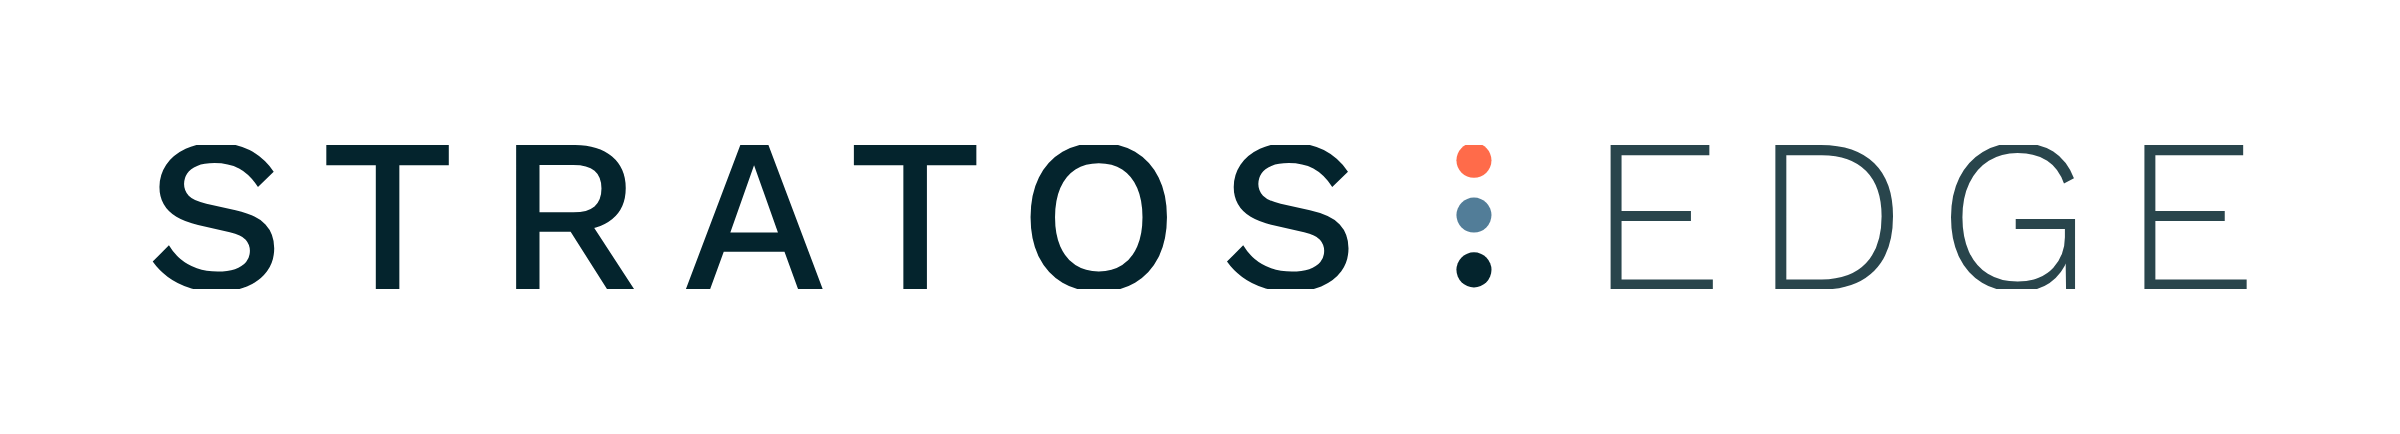
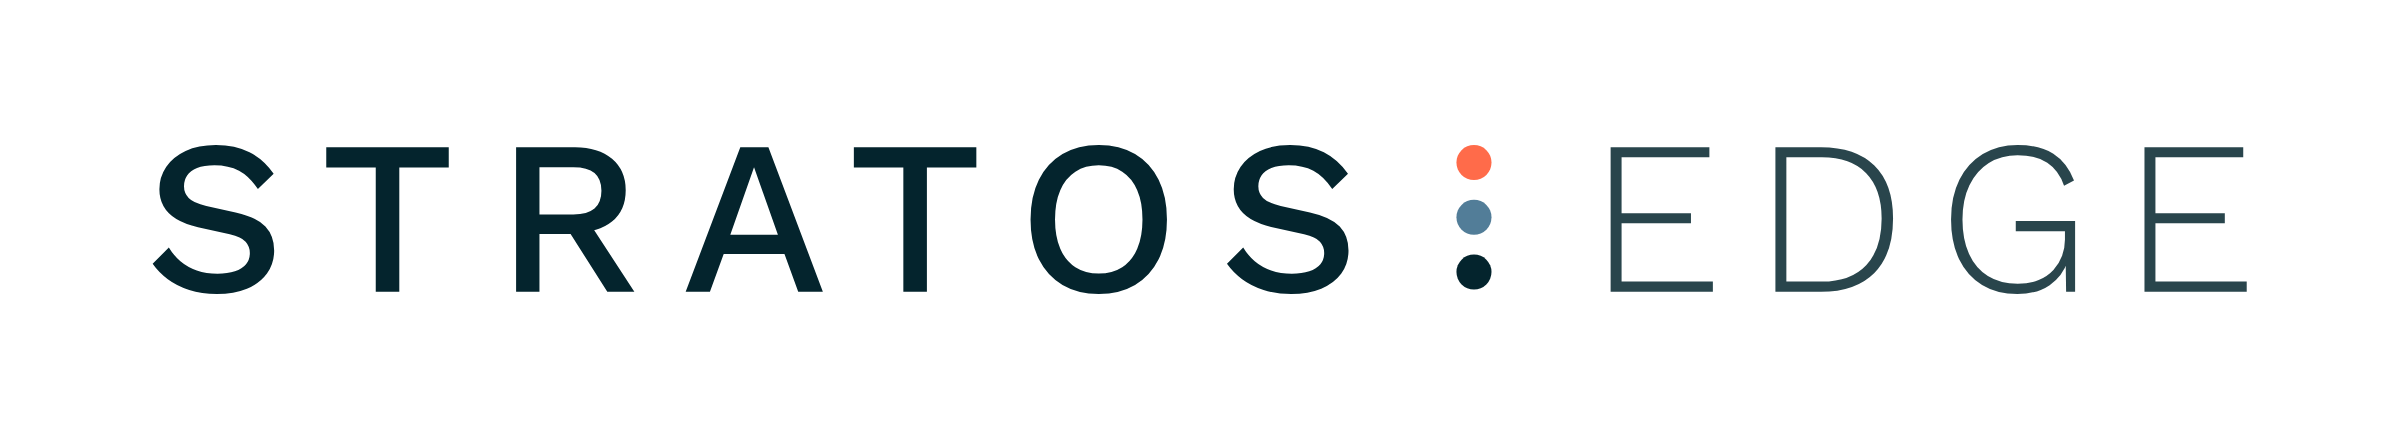
Wordmark and lockup SVGs keep the letters' overshoot; the viewBox follows the real ink, not cap line to baseline

diff --git a/brand-assets/usage.html b/brand-assets/usage.html
@@ -16,14 +16,14 @@
 <section style="margin-top:36px"><div><h2>Three forms</h2><p>The lockup is the mark beside the wordmark. The wordmark is STRATOS and EDGE with the three dots between them. The S is the mark alone, for tight spaces and icons.</p></div>
   <div class="col"><div class="paper"><span class="v" style="height:74px"><svg xmlns="http://www.w3.org/2000/svg" viewBox="0 0 11000.13 1060" role="img"><title>Stratos Edge</title><g transform="translate(-160 -160)">
   <rect x="352.03" y="160" width="652.9" height="291.88" rx="145.94" fill="#FF6B4A"/><rect x="436.52" y="544.06" width="291.88" height="291.88" rx="145.94" fill="#527D98"/><rect x="160" y="928.12" width="652.9" height="291.88" rx="145.94" fill="#04242D"/><g fill="#04242D"><path transform="translate(1524.88 1030)" d="M323.4 -670Q411.9 -670 477.1 -636.7Q542.4 -603.3 587.2 -538.3L515.4 -468.6Q476.6 -527.1 429.2 -552.4Q381.8 -577.7 316.9 -577.7Q268.7 -577.7 237.6 -564.7Q206.6 -551.7 192.3 -530.3Q178 -509 178 -481.9Q178 -451.1 199.3 -428.3Q220.7 -405.5 279.9 -391.9L413.5 -361.9Q509.6 -340.5 549.6 -297.6Q589.6 -254.6 589.6 -188.6Q589.6 -128.2 556.8 -83.3Q523.9 -38.4 465.2 -14.2Q406.5 10 328.3 10Q257.9 10 201.8 -8.1Q145.8 -26.1 104.1 -57.2Q62.4 -88.3 34.9 -127.7L108.9 -202Q129.7 -166.7 161.6 -139.6Q193.6 -112.5 236.4 -97.4Q279.2 -82.3 331.1 -82.3Q377.2 -82.3 410.5 -93.2Q443.8 -104.2 461.2 -125.5Q478.6 -146.7 478.6 -177.1Q478.6 -205.8 459.3 -228Q440 -250.2 387 -262.1L241.9 -294.7Q182.4 -308.4 143 -332.1Q103.6 -355.8 84.7 -390.2Q65.7 -424.6 65.7 -468.4Q65.7 -524.1 96.5 -569.8Q127.2 -615.5 185.3 -642.7Q243.3 -670 323.4 -670Z"/><path transform="translate(2322.5 1030)" d="M588.9 -660V-567.7H363.2V0H255.7V-567.7H29.8V-660Z"/><path transform="translate(3121.25 1030)" d="M367 -660Q473 -660 535.5 -607Q597.9 -554 597.9 -463.9Q597.9 -371.3 535.3 -320.9Q472.8 -270.4 366.7 -270.4L356.8 -264.1H204.2V0H97.6V-660ZM359 -353.1Q423.9 -353.1 455.5 -379.8Q487.1 -406.4 487.1 -460.9Q487.1 -515.2 455.5 -541.9Q423.9 -568.6 359 -568.6H204.2V-353.1ZM421.5 -331.2 637.4 0H513.9L330.4 -289Z"/><path transform="translate(3973.44 1030)" d="M645.7 0H533.2L470.4 -172.7H193.1L130.2 0H19.5L268.8 -660H397.1ZM223.2 -260.3H440.5L331.5 -568.1Z"/><path transform="translate(4730.81 1030)" d="M588.9 -660V-567.7H363.2V0H255.7V-567.7H29.8V-660Z"/><path transform="translate(5506.19 1030)" d="M372.4 -670Q468.4 -670 538 -628.8Q607.7 -587.5 645.6 -511.5Q683.6 -435.5 683.6 -330Q683.6 -224.5 645.6 -148.5Q607.7 -72.5 538 -31.2Q468.4 10 372.4 10Q276.6 10 206.8 -31.2Q137.1 -72.5 99 -148.5Q61 -224.5 61 -330Q61 -435.5 99 -511.5Q137.1 -587.5 206.8 -628.8Q276.6 -670 372.4 -670ZM372.4 -577Q310.5 -577 265.6 -548Q220.8 -519 196.7 -463.8Q172.7 -408.5 172.7 -330Q172.7 -251.7 196.7 -196.3Q220.8 -141 265.6 -112Q310.5 -83 372.4 -83Q435.1 -83 479.5 -112Q524 -141 547.9 -196.3Q571.9 -251.7 571.9 -330Q571.9 -408.5 547.9 -463.8Q524 -519 479.5 -548Q435.1 -577 372.4 -577Z"/><path transform="translate(6428.94 1030)" d="M323.4 -670Q411.9 -670 477.1 -636.7Q542.4 -603.3 587.2 -538.3L515.4 -468.6Q476.6 -527.1 429.2 -552.4Q381.8 -577.7 316.9 -577.7Q268.7 -577.7 237.6 -564.7Q206.6 -551.7 192.3 -530.3Q178 -509 178 -481.9Q178 -451.1 199.3 -428.3Q220.7 -405.5 279.9 -391.9L413.5 -361.9Q509.6 -340.5 549.6 -297.6Q589.6 -254.6 589.6 -188.6Q589.6 -128.2 556.8 -83.3Q523.9 -38.4 465.2 -14.2Q406.5 10 328.3 10Q257.9 10 201.8 -8.1Q145.8 -26.1 104.1 -57.2Q62.4 -88.3 34.9 -127.7L108.9 -202Q129.7 -166.7 161.6 -139.6Q193.6 -112.5 236.4 -97.4Q279.2 -82.3 331.1 -82.3Q377.2 -82.3 410.5 -93.2Q443.8 -104.2 461.2 -125.5Q478.6 -146.7 478.6 -177.1Q478.6 -205.8 459.3 -228Q440 -250.2 387 -262.1L241.9 -294.7Q182.4 -308.4 143 -332.1Q103.6 -355.8 84.7 -390.2Q65.7 -424.6 65.7 -468.4Q65.7 -524.1 96.5 -569.8Q127.2 -615.5 185.3 -642.7Q243.3 -670 323.4 -670Z"/></g><circle cx="7591.25" cy="440" r="80" fill="#FF6B4A"/><circle cx="7591.25" cy="690" r="80" fill="#527D98"/><circle cx="7591.25" cy="940" r="80" fill="#04242D"/><g fill="#04242D" fill-opacity=".85"><path transform="translate(8111.25 1030)" d="M103.8 0V-660H554.6V-613.6H153.8V-358.9H470.5V-312.5H153.8V-46.4H570.5V0Z"/><path transform="translate(8863.44 1030)" d="M312.1 -660Q469.9 -660 555.4 -576.6Q640.8 -493.2 640.8 -334.7Q640.8 -171.9 555.4 -86Q469.9 0 312.1 0H103.8V-660ZM316.3 -46.4Q447.6 -46.4 518.2 -121.2Q588.7 -195.9 588.7 -334.7Q588.7 -469.2 518.2 -541.4Q447.6 -613.6 316.3 -613.6H153.8V-46.4Z"/><path transform="translate(9706.63 1030)" d="M365.1 10Q272 10 204 -31.5Q136 -73 99.2 -149Q62.4 -225 62.4 -330Q62.4 -435 100.5 -511Q138.6 -587 207.2 -628.5Q275.9 -670 366 -670Q466.8 -670 529.2 -630Q591.7 -589.9 623.6 -508.2L578.2 -483.7Q554.8 -553.3 501.7 -588.5Q448.6 -623.6 366 -623.6Q291.5 -623.6 234.8 -588.1Q178.2 -552.6 146.3 -486.8Q114.5 -421 114.5 -330Q114.5 -239 144.2 -173.2Q173.9 -107.4 230.5 -71.9Q287.1 -36.4 366.7 -36.4Q421.8 -36.4 462.4 -53.5Q503.1 -70.5 529.6 -99.5Q556.1 -128.5 569.2 -164.7Q582.3 -200.9 582.3 -239.2V-276.3H357.8V-322.7H628.6V0H587.6L585.5 -143.2L595 -140.6Q571.3 -70.7 512.5 -30.3Q453.7 10 365.1 10Z"/><path transform="translate(10548.13 1030)" d="M103.8 0V-660H554.6V-613.6H153.8V-358.9H470.5V-312.5H153.8V-46.4H570.5V0Z"/></g></g></svg>
-</span></div><div class="paper"><span class="v" style="height:46px"><svg xmlns="http://www.w3.org/2000/svg" viewBox="0 0 9635.25 660" role="img"><title>Stratos Edge</title><g transform="translate(-1524.88 -370)">
+</span></div><div class="paper"><span class="v" style="height:46px"><svg xmlns="http://www.w3.org/2000/svg" viewBox="0 0 9635.25 680" role="img"><title>Stratos Edge</title><g transform="translate(-1524.88 -360)">
   <g fill="#04242D"><path transform="translate(1524.88 1030)" d="M323.4 -670Q411.9 -670 477.1 -636.7Q542.4 -603.3 587.2 -538.3L515.4 -468.6Q476.6 -527.1 429.2 -552.4Q381.8 -577.7 316.9 -577.7Q268.7 -577.7 237.6 -564.7Q206.6 -551.7 192.3 -530.3Q178 -509 178 -481.9Q178 -451.1 199.3 -428.3Q220.7 -405.5 279.9 -391.9L413.5 -361.9Q509.6 -340.5 549.6 -297.6Q589.6 -254.6 589.6 -188.6Q589.6 -128.2 556.8 -83.3Q523.9 -38.4 465.2 -14.2Q406.5 10 328.3 10Q257.9 10 201.8 -8.1Q145.8 -26.1 104.1 -57.2Q62.4 -88.3 34.9 -127.7L108.9 -202Q129.7 -166.7 161.6 -139.6Q193.6 -112.5 236.4 -97.4Q279.2 -82.3 331.1 -82.3Q377.2 -82.3 410.5 -93.2Q443.8 -104.2 461.2 -125.5Q478.6 -146.7 478.6 -177.1Q478.6 -205.8 459.3 -228Q440 -250.2 387 -262.1L241.9 -294.7Q182.4 -308.4 143 -332.1Q103.6 -355.8 84.7 -390.2Q65.7 -424.6 65.7 -468.4Q65.7 -524.1 96.5 -569.8Q127.2 -615.5 185.3 -642.7Q243.3 -670 323.4 -670Z"/><path transform="translate(2322.5 1030)" d="M588.9 -660V-567.7H363.2V0H255.7V-567.7H29.8V-660Z"/><path transform="translate(3121.25 1030)" d="M367 -660Q473 -660 535.5 -607Q597.9 -554 597.9 -463.9Q597.9 -371.3 535.3 -320.9Q472.8 -270.4 366.7 -270.4L356.8 -264.1H204.2V0H97.6V-660ZM359 -353.1Q423.9 -353.1 455.5 -379.8Q487.1 -406.4 487.1 -460.9Q487.1 -515.2 455.5 -541.9Q423.9 -568.6 359 -568.6H204.2V-353.1ZM421.5 -331.2 637.4 0H513.9L330.4 -289Z"/><path transform="translate(3973.44 1030)" d="M645.7 0H533.2L470.4 -172.7H193.1L130.2 0H19.5L268.8 -660H397.1ZM223.2 -260.3H440.5L331.5 -568.1Z"/><path transform="translate(4730.81 1030)" d="M588.9 -660V-567.7H363.2V0H255.7V-567.7H29.8V-660Z"/><path transform="translate(5506.19 1030)" d="M372.4 -670Q468.4 -670 538 -628.8Q607.7 -587.5 645.6 -511.5Q683.6 -435.5 683.6 -330Q683.6 -224.5 645.6 -148.5Q607.7 -72.5 538 -31.2Q468.4 10 372.4 10Q276.6 10 206.8 -31.2Q137.1 -72.5 99 -148.5Q61 -224.5 61 -330Q61 -435.5 99 -511.5Q137.1 -587.5 206.8 -628.8Q276.6 -670 372.4 -670ZM372.4 -577Q310.5 -577 265.6 -548Q220.8 -519 196.7 -463.8Q172.7 -408.5 172.7 -330Q172.7 -251.7 196.7 -196.3Q220.8 -141 265.6 -112Q310.5 -83 372.4 -83Q435.1 -83 479.5 -112Q524 -141 547.9 -196.3Q571.9 -251.7 571.9 -330Q571.9 -408.5 547.9 -463.8Q524 -519 479.5 -548Q435.1 -577 372.4 -577Z"/><path transform="translate(6428.94 1030)" d="M323.4 -670Q411.9 -670 477.1 -636.7Q542.4 -603.3 587.2 -538.3L515.4 -468.6Q476.6 -527.1 429.2 -552.4Q381.8 -577.7 316.9 -577.7Q268.7 -577.7 237.6 -564.7Q206.6 -551.7 192.3 -530.3Q178 -509 178 -481.9Q178 -451.1 199.3 -428.3Q220.7 -405.5 279.9 -391.9L413.5 -361.9Q509.6 -340.5 549.6 -297.6Q589.6 -254.6 589.6 -188.6Q589.6 -128.2 556.8 -83.3Q523.9 -38.4 465.2 -14.2Q406.5 10 328.3 10Q257.9 10 201.8 -8.1Q145.8 -26.1 104.1 -57.2Q62.4 -88.3 34.9 -127.7L108.9 -202Q129.7 -166.7 161.6 -139.6Q193.6 -112.5 236.4 -97.4Q279.2 -82.3 331.1 -82.3Q377.2 -82.3 410.5 -93.2Q443.8 -104.2 461.2 -125.5Q478.6 -146.7 478.6 -177.1Q478.6 -205.8 459.3 -228Q440 -250.2 387 -262.1L241.9 -294.7Q182.4 -308.4 143 -332.1Q103.6 -355.8 84.7 -390.2Q65.7 -424.6 65.7 -468.4Q65.7 -524.1 96.5 -569.8Q127.2 -615.5 185.3 -642.7Q243.3 -670 323.4 -670Z"/></g><circle cx="7591.25" cy="440" r="80" fill="#FF6B4A"/><circle cx="7591.25" cy="690" r="80" fill="#527D98"/><circle cx="7591.25" cy="940" r="80" fill="#04242D"/><g fill="#04242D" fill-opacity=".85"><path transform="translate(8111.25 1030)" d="M103.8 0V-660H554.6V-613.6H153.8V-358.9H470.5V-312.5H153.8V-46.4H570.5V0Z"/><path transform="translate(8863.44 1030)" d="M312.1 -660Q469.9 -660 555.4 -576.6Q640.8 -493.2 640.8 -334.7Q640.8 -171.9 555.4 -86Q469.9 0 312.1 0H103.8V-660ZM316.3 -46.4Q447.6 -46.4 518.2 -121.2Q588.7 -195.9 588.7 -334.7Q588.7 -469.2 518.2 -541.4Q447.6 -613.6 316.3 -613.6H153.8V-46.4Z"/><path transform="translate(9706.63 1030)" d="M365.1 10Q272 10 204 -31.5Q136 -73 99.2 -149Q62.4 -225 62.4 -330Q62.4 -435 100.5 -511Q138.6 -587 207.2 -628.5Q275.9 -670 366 -670Q466.8 -670 529.2 -630Q591.7 -589.9 623.6 -508.2L578.2 -483.7Q554.8 -553.3 501.7 -588.5Q448.6 -623.6 366 -623.6Q291.5 -623.6 234.8 -588.1Q178.2 -552.6 146.3 -486.8Q114.5 -421 114.5 -330Q114.5 -239 144.2 -173.2Q173.9 -107.4 230.5 -71.9Q287.1 -36.4 366.7 -36.4Q421.8 -36.4 462.4 -53.5Q503.1 -70.5 529.6 -99.5Q556.1 -128.5 569.2 -164.7Q582.3 -200.9 582.3 -239.2V-276.3H357.8V-322.7H628.6V0H587.6L585.5 -143.2L595 -140.6Q571.3 -70.7 512.5 -30.3Q453.7 10 365.1 10Z"/><path transform="translate(10548.13 1030)" d="M103.8 0V-660H554.6V-613.6H153.8V-358.9H470.5V-312.5H153.8V-46.4H570.5V0Z"/></g></g></svg>
 </span></div><div class="paper" style="width:min-content"><span class="g" style="width:72px;height:72px;"><svg xmlns="http://www.w3.org/2000/svg" viewBox="70 42 372 428" role="img"><title>Stratos Edge</title><rect x="196" y="118" width="170" height="76" rx="38" fill="#FF6B4A"></rect><rect x="218" y="218" width="76" height="76" rx="38" fill="#527D98"></rect><rect x="146" y="318" width="170" height="76" rx="38" fill="#04242D"></rect></svg>
 </span></div></div></section>
 <section><div><h2>On ink</h2><p>On a dark background the letters are white and the bottom piece of the mark turns white. Coral and steel stay as they are.</p></div>
   <div class="col ink"><div><span class="v" style="height:74px"><svg xmlns="http://www.w3.org/2000/svg" viewBox="0 0 11000.13 1060" role="img"><title>Stratos Edge</title><g transform="translate(-160 -160)">
   <rect x="352.03" y="160" width="652.9" height="291.88" rx="145.94" fill="#FF6B4A"/><rect x="436.52" y="544.06" width="291.88" height="291.88" rx="145.94" fill="#527D98"/><rect x="160" y="928.12" width="652.9" height="291.88" rx="145.94" fill="#FFFFFF"/><g fill="#FFFFFF"><path transform="translate(1524.88 1030)" d="M323.4 -670Q411.9 -670 477.1 -636.7Q542.4 -603.3 587.2 -538.3L515.4 -468.6Q476.6 -527.1 429.2 -552.4Q381.8 -577.7 316.9 -577.7Q268.7 -577.7 237.6 -564.7Q206.6 -551.7 192.3 -530.3Q178 -509 178 -481.9Q178 -451.1 199.3 -428.3Q220.7 -405.5 279.9 -391.9L413.5 -361.9Q509.6 -340.5 549.6 -297.6Q589.6 -254.6 589.6 -188.6Q589.6 -128.2 556.8 -83.3Q523.9 -38.4 465.2 -14.2Q406.5 10 328.3 10Q257.9 10 201.8 -8.1Q145.8 -26.1 104.1 -57.2Q62.4 -88.3 34.9 -127.7L108.9 -202Q129.7 -166.7 161.6 -139.6Q193.6 -112.5 236.4 -97.4Q279.2 -82.3 331.1 -82.3Q377.2 -82.3 410.5 -93.2Q443.8 -104.2 461.2 -125.5Q478.6 -146.7 478.6 -177.1Q478.6 -205.8 459.3 -228Q440 -250.2 387 -262.1L241.9 -294.7Q182.4 -308.4 143 -332.1Q103.6 -355.8 84.7 -390.2Q65.7 -424.6 65.7 -468.4Q65.7 -524.1 96.5 -569.8Q127.2 -615.5 185.3 -642.7Q243.3 -670 323.4 -670Z"/><path transform="translate(2322.5 1030)" d="M588.9 -660V-567.7H363.2V0H255.7V-567.7H29.8V-660Z"/><path transform="translate(3121.25 1030)" d="M367 -660Q473 -660 535.5 -607Q597.9 -554 597.9 -463.9Q597.9 -371.3 535.3 -320.9Q472.8 -270.4 366.7 -270.4L356.8 -264.1H204.2V0H97.6V-660ZM359 -353.1Q423.9 -353.1 455.5 -379.8Q487.1 -406.4 487.1 -460.9Q487.1 -515.2 455.5 -541.9Q423.9 -568.6 359 -568.6H204.2V-353.1ZM421.5 -331.2 637.4 0H513.9L330.4 -289Z"/><path transform="translate(3973.44 1030)" d="M645.7 0H533.2L470.4 -172.7H193.1L130.2 0H19.5L268.8 -660H397.1ZM223.2 -260.3H440.5L331.5 -568.1Z"/><path transform="translate(4730.81 1030)" d="M588.9 -660V-567.7H363.2V0H255.7V-567.7H29.8V-660Z"/><path transform="translate(5506.19 1030)" d="M372.4 -670Q468.4 -670 538 -628.8Q607.7 -587.5 645.6 -511.5Q683.6 -435.5 683.6 -330Q683.6 -224.5 645.6 -148.5Q607.7 -72.5 538 -31.2Q468.4 10 372.4 10Q276.6 10 206.8 -31.2Q137.1 -72.5 99 -148.5Q61 -224.5 61 -330Q61 -435.5 99 -511.5Q137.1 -587.5 206.8 -628.8Q276.6 -670 372.4 -670ZM372.4 -577Q310.5 -577 265.6 -548Q220.8 -519 196.7 -463.8Q172.7 -408.5 172.7 -330Q172.7 -251.7 196.7 -196.3Q220.8 -141 265.6 -112Q310.5 -83 372.4 -83Q435.1 -83 479.5 -112Q524 -141 547.9 -196.3Q571.9 -251.7 571.9 -330Q571.9 -408.5 547.9 -463.8Q524 -519 479.5 -548Q435.1 -577 372.4 -577Z"/><path transform="translate(6428.94 1030)" d="M323.4 -670Q411.9 -670 477.1 -636.7Q542.4 -603.3 587.2 -538.3L515.4 -468.6Q476.6 -527.1 429.2 -552.4Q381.8 -577.7 316.9 -577.7Q268.7 -577.7 237.6 -564.7Q206.6 -551.7 192.3 -530.3Q178 -509 178 -481.9Q178 -451.1 199.3 -428.3Q220.7 -405.5 279.9 -391.9L413.5 -361.9Q509.6 -340.5 549.6 -297.6Q589.6 -254.6 589.6 -188.6Q589.6 -128.2 556.8 -83.3Q523.9 -38.4 465.2 -14.2Q406.5 10 328.3 10Q257.9 10 201.8 -8.1Q145.8 -26.1 104.1 -57.2Q62.4 -88.3 34.9 -127.7L108.9 -202Q129.7 -166.7 161.6 -139.6Q193.6 -112.5 236.4 -97.4Q279.2 -82.3 331.1 -82.3Q377.2 -82.3 410.5 -93.2Q443.8 -104.2 461.2 -125.5Q478.6 -146.7 478.6 -177.1Q478.6 -205.8 459.3 -228Q440 -250.2 387 -262.1L241.9 -294.7Q182.4 -308.4 143 -332.1Q103.6 -355.8 84.7 -390.2Q65.7 -424.6 65.7 -468.4Q65.7 -524.1 96.5 -569.8Q127.2 -615.5 185.3 -642.7Q243.3 -670 323.4 -670Z"/></g><circle cx="7591.25" cy="440" r="80" fill="#FF6B4A"/><circle cx="7591.25" cy="690" r="80" fill="#527D98"/><circle cx="7591.25" cy="940" r="80" fill="#FFFFFF"/><g fill="#FFFFFF" fill-opacity=".85"><path transform="translate(8111.25 1030)" d="M103.8 0V-660H554.6V-613.6H153.8V-358.9H470.5V-312.5H153.8V-46.4H570.5V0Z"/><path transform="translate(8863.44 1030)" d="M312.1 -660Q469.9 -660 555.4 -576.6Q640.8 -493.2 640.8 -334.7Q640.8 -171.9 555.4 -86Q469.9 0 312.1 0H103.8V-660ZM316.3 -46.4Q447.6 -46.4 518.2 -121.2Q588.7 -195.9 588.7 -334.7Q588.7 -469.2 518.2 -541.4Q447.6 -613.6 316.3 -613.6H153.8V-46.4Z"/><path transform="translate(9706.63 1030)" d="M365.1 10Q272 10 204 -31.5Q136 -73 99.2 -149Q62.4 -225 62.4 -330Q62.4 -435 100.5 -511Q138.6 -587 207.2 -628.5Q275.9 -670 366 -670Q466.8 -670 529.2 -630Q591.7 -589.9 623.6 -508.2L578.2 -483.7Q554.8 -553.3 501.7 -588.5Q448.6 -623.6 366 -623.6Q291.5 -623.6 234.8 -588.1Q178.2 -552.6 146.3 -486.8Q114.5 -421 114.5 -330Q114.5 -239 144.2 -173.2Q173.9 -107.4 230.5 -71.9Q287.1 -36.4 366.7 -36.4Q421.8 -36.4 462.4 -53.5Q503.1 -70.5 529.6 -99.5Q556.1 -128.5 569.2 -164.7Q582.3 -200.9 582.3 -239.2V-276.3H357.8V-322.7H628.6V0H587.6L585.5 -143.2L595 -140.6Q571.3 -70.7 512.5 -30.3Q453.7 10 365.1 10Z"/><path transform="translate(10548.13 1030)" d="M103.8 0V-660H554.6V-613.6H153.8V-358.9H470.5V-312.5H153.8V-46.4H570.5V0Z"/></g></g></svg>
-</span></div><div><span class="v" style="height:46px"><svg xmlns="http://www.w3.org/2000/svg" viewBox="0 0 9635.25 660" role="img"><title>Stratos Edge</title><g transform="translate(-1524.88 -370)">
+</span></div><div><span class="v" style="height:46px"><svg xmlns="http://www.w3.org/2000/svg" viewBox="0 0 9635.25 680" role="img"><title>Stratos Edge</title><g transform="translate(-1524.88 -360)">
   <g fill="#FFFFFF"><path transform="translate(1524.88 1030)" d="M323.4 -670Q411.9 -670 477.1 -636.7Q542.4 -603.3 587.2 -538.3L515.4 -468.6Q476.6 -527.1 429.2 -552.4Q381.8 -577.7 316.9 -577.7Q268.7 -577.7 237.6 -564.7Q206.6 -551.7 192.3 -530.3Q178 -509 178 -481.9Q178 -451.1 199.3 -428.3Q220.7 -405.5 279.9 -391.9L413.5 -361.9Q509.6 -340.5 549.6 -297.6Q589.6 -254.6 589.6 -188.6Q589.6 -128.2 556.8 -83.3Q523.9 -38.4 465.2 -14.2Q406.5 10 328.3 10Q257.9 10 201.8 -8.1Q145.8 -26.1 104.1 -57.2Q62.4 -88.3 34.9 -127.7L108.9 -202Q129.7 -166.7 161.6 -139.6Q193.6 -112.5 236.4 -97.4Q279.2 -82.3 331.1 -82.3Q377.2 -82.3 410.5 -93.2Q443.8 -104.2 461.2 -125.5Q478.6 -146.7 478.6 -177.1Q478.6 -205.8 459.3 -228Q440 -250.2 387 -262.1L241.9 -294.7Q182.4 -308.4 143 -332.1Q103.6 -355.8 84.7 -390.2Q65.7 -424.6 65.7 -468.4Q65.7 -524.1 96.5 -569.8Q127.2 -615.5 185.3 -642.7Q243.3 -670 323.4 -670Z"/><path transform="translate(2322.5 1030)" d="M588.9 -660V-567.7H363.2V0H255.7V-567.7H29.8V-660Z"/><path transform="translate(3121.25 1030)" d="M367 -660Q473 -660 535.5 -607Q597.9 -554 597.9 -463.9Q597.9 -371.3 535.3 -320.9Q472.8 -270.4 366.7 -270.4L356.8 -264.1H204.2V0H97.6V-660ZM359 -353.1Q423.9 -353.1 455.5 -379.8Q487.1 -406.4 487.1 -460.9Q487.1 -515.2 455.5 -541.9Q423.9 -568.6 359 -568.6H204.2V-353.1ZM421.5 -331.2 637.4 0H513.9L330.4 -289Z"/><path transform="translate(3973.44 1030)" d="M645.7 0H533.2L470.4 -172.7H193.1L130.2 0H19.5L268.8 -660H397.1ZM223.2 -260.3H440.5L331.5 -568.1Z"/><path transform="translate(4730.81 1030)" d="M588.9 -660V-567.7H363.2V0H255.7V-567.7H29.8V-660Z"/><path transform="translate(5506.19 1030)" d="M372.4 -670Q468.4 -670 538 -628.8Q607.7 -587.5 645.6 -511.5Q683.6 -435.5 683.6 -330Q683.6 -224.5 645.6 -148.5Q607.7 -72.5 538 -31.2Q468.4 10 372.4 10Q276.6 10 206.8 -31.2Q137.1 -72.5 99 -148.5Q61 -224.5 61 -330Q61 -435.5 99 -511.5Q137.1 -587.5 206.8 -628.8Q276.6 -670 372.4 -670ZM372.4 -577Q310.5 -577 265.6 -548Q220.8 -519 196.7 -463.8Q172.7 -408.5 172.7 -330Q172.7 -251.7 196.7 -196.3Q220.8 -141 265.6 -112Q310.5 -83 372.4 -83Q435.1 -83 479.5 -112Q524 -141 547.9 -196.3Q571.9 -251.7 571.9 -330Q571.9 -408.5 547.9 -463.8Q524 -519 479.5 -548Q435.1 -577 372.4 -577Z"/><path transform="translate(6428.94 1030)" d="M323.4 -670Q411.9 -670 477.1 -636.7Q542.4 -603.3 587.2 -538.3L515.4 -468.6Q476.6 -527.1 429.2 -552.4Q381.8 -577.7 316.9 -577.7Q268.7 -577.7 237.6 -564.7Q206.6 -551.7 192.3 -530.3Q178 -509 178 -481.9Q178 -451.1 199.3 -428.3Q220.7 -405.5 279.9 -391.9L413.5 -361.9Q509.6 -340.5 549.6 -297.6Q589.6 -254.6 589.6 -188.6Q589.6 -128.2 556.8 -83.3Q523.9 -38.4 465.2 -14.2Q406.5 10 328.3 10Q257.9 10 201.8 -8.1Q145.8 -26.1 104.1 -57.2Q62.4 -88.3 34.9 -127.7L108.9 -202Q129.7 -166.7 161.6 -139.6Q193.6 -112.5 236.4 -97.4Q279.2 -82.3 331.1 -82.3Q377.2 -82.3 410.5 -93.2Q443.8 -104.2 461.2 -125.5Q478.6 -146.7 478.6 -177.1Q478.6 -205.8 459.3 -228Q440 -250.2 387 -262.1L241.9 -294.7Q182.4 -308.4 143 -332.1Q103.6 -355.8 84.7 -390.2Q65.7 -424.6 65.7 -468.4Q65.7 -524.1 96.5 -569.8Q127.2 -615.5 185.3 -642.7Q243.3 -670 323.4 -670Z"/></g><circle cx="7591.25" cy="440" r="80" fill="#FF6B4A"/><circle cx="7591.25" cy="690" r="80" fill="#527D98"/><circle cx="7591.25" cy="940" r="80" fill="#FFFFFF"/><g fill="#FFFFFF" fill-opacity=".85"><path transform="translate(8111.25 1030)" d="M103.8 0V-660H554.6V-613.6H153.8V-358.9H470.5V-312.5H153.8V-46.4H570.5V0Z"/><path transform="translate(8863.44 1030)" d="M312.1 -660Q469.9 -660 555.4 -576.6Q640.8 -493.2 640.8 -334.7Q640.8 -171.9 555.4 -86Q469.9 0 312.1 0H103.8V-660ZM316.3 -46.4Q447.6 -46.4 518.2 -121.2Q588.7 -195.9 588.7 -334.7Q588.7 -469.2 518.2 -541.4Q447.6 -613.6 316.3 -613.6H153.8V-46.4Z"/><path transform="translate(9706.63 1030)" d="M365.1 10Q272 10 204 -31.5Q136 -73 99.2 -149Q62.4 -225 62.4 -330Q62.4 -435 100.5 -511Q138.6 -587 207.2 -628.5Q275.9 -670 366 -670Q466.8 -670 529.2 -630Q591.7 -589.9 623.6 -508.2L578.2 -483.7Q554.8 -553.3 501.7 -588.5Q448.6 -623.6 366 -623.6Q291.5 -623.6 234.8 -588.1Q178.2 -552.6 146.3 -486.8Q114.5 -421 114.5 -330Q114.5 -239 144.2 -173.2Q173.9 -107.4 230.5 -71.9Q287.1 -36.4 366.7 -36.4Q421.8 -36.4 462.4 -53.5Q503.1 -70.5 529.6 -99.5Q556.1 -128.5 569.2 -164.7Q582.3 -200.9 582.3 -239.2V-276.3H357.8V-322.7H628.6V0H587.6L585.5 -143.2L595 -140.6Q571.3 -70.7 512.5 -30.3Q453.7 10 365.1 10Z"/><path transform="translate(10548.13 1030)" d="M103.8 0V-660H554.6V-613.6H153.8V-358.9H470.5V-312.5H153.8V-46.4H570.5V0Z"/></g></g></svg>
 </span></div><div><span class="g" style="width:72px;height:72px;"><svg xmlns="http://www.w3.org/2000/svg" viewBox="70 42 372 428" role="img"><title>Stratos Edge</title><rect x="196" y="118" width="170" height="76" rx="38" fill="#FF6B4A"></rect><rect x="218" y="218" width="76" height="76" rx="38" fill="#527D98"></rect><rect x="146" y="318" width="170" height="76" rx="38" fill="#FFFFFF"></rect></svg>
 </span></div></div></section>
